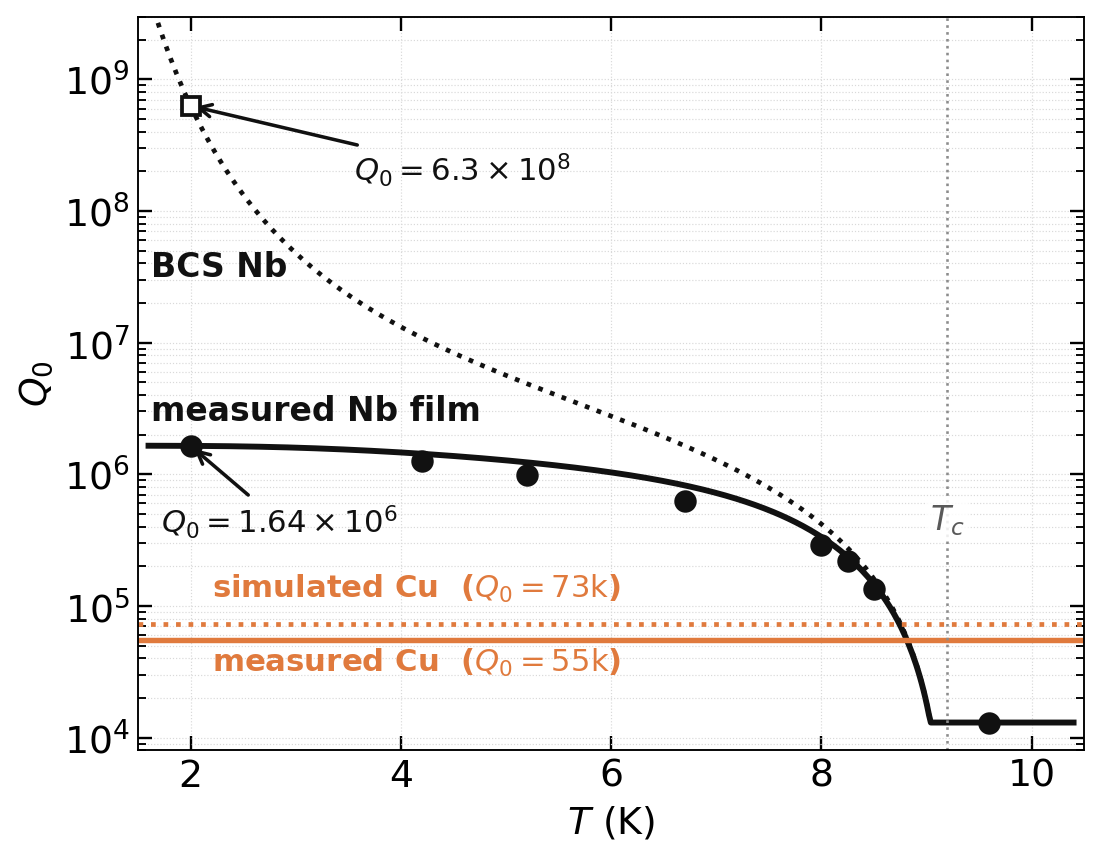
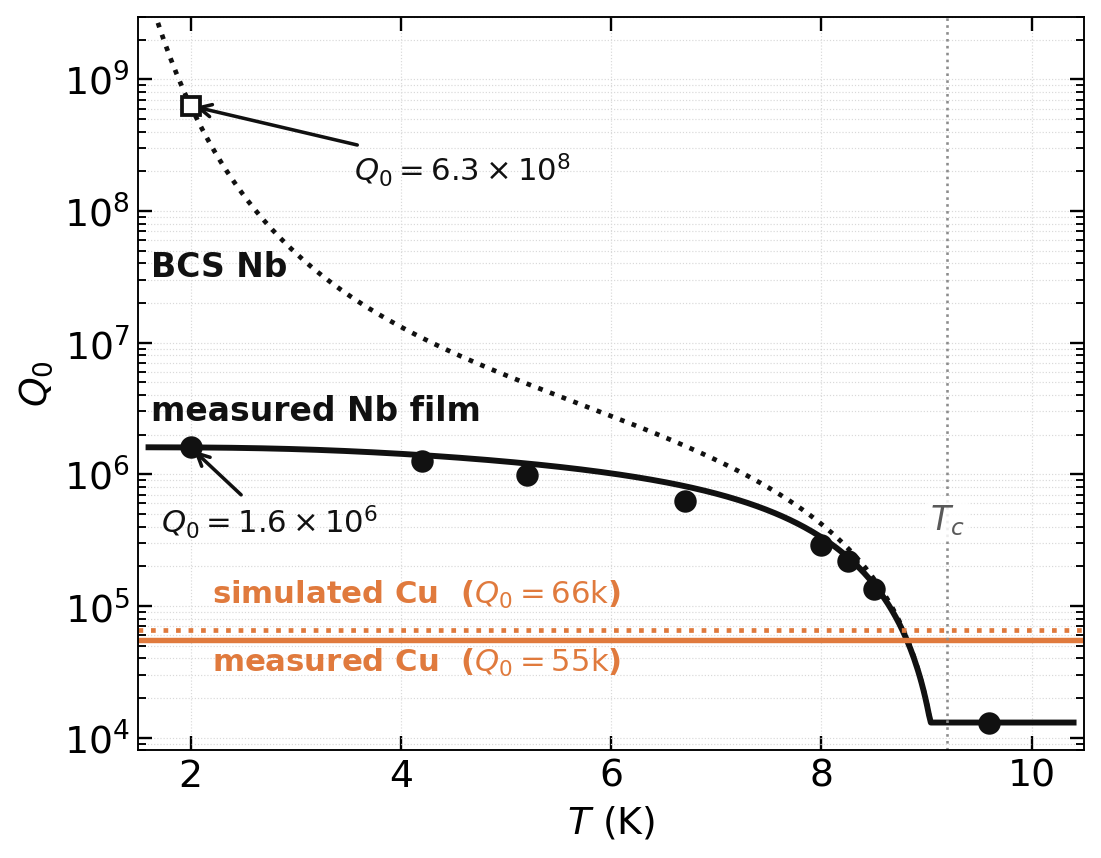
Updates from Overleaf

diff --git a/main1.tex b/main1.tex
@@ -38,15 +38,15 @@ Niobium thin films, superconducting cavities, quality factor, surface resistance
 
 \section{Introduction}
 \label{sec:intro}
-\IEEEPARstart{D}{eveloping} next-generation superconducting radio-frequency (SRF) cavities beyond high-purity Nb for higher-temperature $\sim$4 K operations increasingly depends on engineered surfaces and thin-film superconductors that can exceed the performance and cost limits of conventional bulk niobium~\cite{valenteFelicianoReview2016}. Candidate technologies include Nb$_3$Sn on Cu, Nb/Cu, multilayer superconducting structures, and other high-$T_c$ or high-superheating-field materials~\cite{valenteFelicianoReview2016, posen2023HighQ}. Because many of these materials cannot be fabricated as bulk cavities, thin-film deposition onto Nb or Cu substrates offers an attractive pathway to higher operating temperatures, reduces cryogenic demand, and potentially improves RF performance.
+\IEEEPARstart{D}{eveloping} next-generation superconducting radio-frequency (SRF) cavities beyond high-purity Nb for higher temperature ($\sim$4 K) operations increasingly depends on engineered surfaces and thin-film superconductors that can exceed the performance and cost limits of conventional bulk niobium~\cite{valenteFelicianoReview2016}. Candidate technologies include Nb$_3$Sn, Nb/Cu, multilayer superconducting structures, and other high-$T_c$ or high-superheating-field materials~\cite{valenteFelicianoReview2016, posen2023HighQ}. Because many of these materials cannot be fabricated as bulk cavities, thin-film deposition onto Nb or Cu substrates offers an attractive pathway to higher operating temperatures, reduces cryogenic demand, and potentially improves RF performance.
 
 A fundamental bottleneck, however, is how quickly researchers can evaluate candidate materials and deposition processes under realistic RF conditions. Thin-film development for SRF cavities involves a large, multidimensional processing space, including deposition technique, substrate condition, deposition temperature, film thickness, composition, microstructure, interface quality, heat treatment, surface processing, and, importantly, deposition on 3D cavity shapes. Conventional material characterization techniques such as XRD, SEM, transport measurements, magnetometry, and DC susceptibility provide essential superconducting material information but cannot directly determine the RF surface resistance $R_{s}$, field-dependent losses, or RF-induced degradation that ultimately governs SRF cavity performance.  Consequently, RF testing remains an indispensable bridge between materials development and cavity implementation.
 
-No direct method exists to evaluate structure-processing-performance relationships for SRF surfaces and thin films. Significant efforts in thermometry and destructive post-test coupon cutting from problem areas are state-of-the-art techniques to bridge defects to SRF performance~\cite{knobloch1995thermometry, trenikhinaSRF2013, ciovatiAnlageGurevich2013, posenTrenikhina2017NbSnPerformance, bianchiVenturiniDelsolaro2023, geCooley2011Replica}. Sample-based RF systems, particularly cavity-based systems, are needed to address this problem by exposing relatively small material samples to RF magnetic fields ($B_{RF}$), enabling measurements of $R_s(T, B_{RF}, f)$. Current SRF thin-film material characterization techniques rely on concentrating the RF field onto a flat 2D disc sample: quadrupole resonator (QPR)~\cite{del2018redesign, monroy2019design,ge2026design,zhao2026multiphysics}, mushroom cavities~\cite{nantista2005test,xie2013development,maniscalco2016new}, and choke cavity~\cite{seal2024high}. An alternative approach is to design 3D shapes with split cells, such as the SWELL cavity at CERN~\cite{peaugerSWELL2022} and the 6\,GHz Daresbury split cell~\cite{leicesterSplit6GHz2023}. The cavity reported here follows this general split-cell 3D approach, using a two-piece hexagonal prism geometry.
+Minimal methods exists to evaluate structure-processing-performance relationships for SRF surfaces and thin films. Significant efforts in thermometry and destructive post-test coupon cutting from problem areas are state-of-the-art techniques to bridge defects to SRF performance~\cite{knobloch1995thermometry, trenikhinaSRF2013, ciovatiAnlageGurevich2013, posenTrenikhina2017NbSnPerformance, bianchiVenturiniDelsolaro2023, geCooley2011Replica}. Sample-based RF systems, particularly cavity-based systems, are needed to address this problem by exposing relatively small material samples to RF magnetic fields ($B_{RF}$), enabling measurements of $R_s(T, B_{RF}, f)$. Coupon SRF thin-film material characterization techniques rely on concentrating the RF field onto a flat 2D disc sample: quadrupole resonator (QPR)~\cite{del2018redesign, monroy2019design,ge2026design,zhao2026multiphysics}, mushroom cavities~\cite{nantista2005test,xie2013development,maniscalco2016new}, and choke cavity~\cite{seal2024high}. An alternative approach is to design 3D shapes with split cells, such as the SWELL cavity at CERN~\cite{peaugerSWELL2022} and the 6\,GHz Daresbury split cell~\cite{leicesterSplit6GHz2023}. The cavity reported here follows this general split-cell 3D approach, using a two-piece hexagonal prism geometry.
 
-Nb and NbTi have upper critical fields at or below the fields used in present axion searches, which rules them out of a high-field haloscope on physics grounds alone~\cite{gurevichUseNotUse2011}. Nb$_3$Sn, with $T_c \approx \SI{18.3}{\kelvin}$ and $H_{c2}\approx\SI{30}{\tesla}$, is a leading high-field candidate. The standard route, vapor diffusion of Sn into bulk Nb, gives the highest quality factors reported to date~\cite{posenNb3SnSuperconductingRadiofrequency2017}, but is not compatible with a copper substrate; routes under active development on copper instead include Sn-bronze diffusion~\cite{withanageRapidNbSn2021}, stoichiometric-target magnetron sputtering~\cite{fonnesuRecipeOptimizationSRF2025}, and Nb/Sn co-sputtering~\cite{sayeedFabricationSuperconductingNb3Sn2023}. Nb$_3$Sn films are left for future work, as they had poor quality factors ($< 10^5$) at zero magnetic field, so simpler Nb films were measured here as a control experiment. The Nb film and bare Cu were measured in the same Cu cavity body and compared with simulated bulk Cu and with the expected performance of bulk Nb under similar conditions (no magnetic shielding, film exposed to air before testing).
+Nb and NbTi have upper critical fields at or below the fields used in present axion searches, which rules them out of a high-field haloscope on physics grounds alone~\cite{gurevichUseNotUse2011}. Nb$_3$Sn, with $T_c \approx \SI{18.3}{\kelvin}$ and $H_{c2}\approx\SI{30}{\tesla}$, is a leading high-field candidate. The standard route, vapor diffusion of Sn into bulk Nb, gives the highest quality factors reported to date~\cite{posenNb3SnSuperconductingRadiofrequency2017}, but is not compatible with a copper substrate; routes under active development on copper instead include Sn-bronze diffusion~\cite{withanageRapidNbSn2021, juliaoNb3SnThesis2026, luCuBronzeQPR2026}, stoichiometric-target magnetron sputtering~\cite{fonnesuRecipeOptimizationSRF2025}, and Nb/Sn co-sputtering~\cite{sayeedFabricationSuperconductingNb3Sn2023}. Nb$_3$Sn films were made on this cavity geometry, but are left for future work. Since the Nb$_3$Sn films had inadequate quality factors ($< 10^5$) at zero magnetic field, simpler Nb films were measured here to learn more about the cavity design while not me limited by the film quality. The bare Cu and Nb film were measured in the same Cu cavity geometry and compared with simulated bulk Cu and the expected performance of bulk Nb under similar conditions (no magnetic shielding, film exposed to air before testing).
 
-The cavity in this work fit inside the small sample space of a Quantum Design PPMS, constraining its outer dimension to \SI{26}{\milli\meter}, a factor of six smaller compared to other benchmark results~\cite{posen2023HighQ, alesini2019QUAX}. The cylindrical PPMS cavity design was first proposed by Thomas Braine~\cite{Braine:2024nzi}, and iterated into a hexagonal prism design used for this work~\cite{juliaoNb3SnThesis2026}. This PPMS-compatible design allows for rapid screening of the quality factor vs temperature and magnetic field for coatings using a compact, commercially available system.
+The cavities in this work fit inside the small sample space of a Quantum Design PPMS, constraining its outer dimension to \SI{26}{\milli\meter}, a factor of six smaller compared to other benchmark results~\cite{posen2023HighQ, alesini2019QUAX}. The cylindrical PPMS cavity design was first proposed by Thomas Braine~\cite{Braine:2024nzi}, and iterated into a hexagonal prism design used for this work~\cite{juliaoNb3SnThesis2026}. This design allows for rapid screening of the quality factor of coatings using a commercially available system for temperature and magnetic field control.
 
 
 \section{Methods}
@@ -54,12 +54,12 @@ The cavity in this work fit inside the small sample space of a Quantum Design PP
 \label{sec:fabrication}
 
 
-The two-piece hexagonal prism cavity is machined from bulk oxygen-free high-conductivity copper, is \SI{72}{\milli\meter} tall (\SI{52}{\milli\meter} inner length) with a \SI{11.6}{\milli\meter} inner wall face width and a minimum wall thickness of \SI{2}{\milli\meter}. The two halves close with four hand-tightened stainless screws and three alignment pegs, and the cavity operates in the TM$_{010}$ mode near \SI{11}{\giga\hertz}. Before deposition, each half was mechanically polished by hand with 400 to 1200 grit and electropolished in phosphoric acid:butanol (3:2) at \SI{45}{\celsius} with a stir bar at 600\,RPM.
+The two-piece hexagonal prism cavity is machined from bulk oxygen-free high-conductivity copper and is \SI{72}{\milli\meter} tall (\SI{52}{\milli\meter} inner length) with an \SI{11.6}{\milli\meter} inner wall face width and a minimum wall thickness of \SI{2}{\milli\meter}. The two halves close with four hand-tightened stainless screws and three alignment pegs, and the cavity operates in the TM$_{010}$ mode near \SI{11}{\giga\hertz}. Before deposition, each half was mechanically polished by hand with 400 to 1200 grit and electropolished in phosphoric acid:butanol (3:2) at \SI{45}{\celsius} with a stir bar at 600\,RPM.
 
 \subsection{Superconducting Thin Film Deposition}
 \label{sec:deposition}
 
-The RF surface was coated with a \SI{500}{\nano\meter} Ta diffusion barrier by DC magnetron sputtering at \SI{100}{\watt} with a \SI{-100}{\volt} substrate bias in \SI{10}{\milli\torr} Ar at \SI{200}{\celsius}, followed by a \SI{700}{\nano\meter} Nb layer sputtered at \SI{250}{\watt} in \SI{8}{\milli\torr} Ar, also at \SI{200}{\celsius}. After deposition, we hand-polished the mating interface between the two halves to close the seam gap; however, light was still visible when we held the assembled halves up to a light source. Fig.~\ref{fig:cavity} shows the coated cavity halves; the darker Nb film covers the resonating wall, while the interface appears as bare copper due to the post-deposition polish.
+The RF surface was coated with a \SI{500}{\nano\meter} Ta diffusion barrier by DC magnetron sputtering at \SI{100}{\watt} with a \SI{-100}{\volt} substrate bias in \SI{10}{\milli\torr} Ar at \SI{200}{\celsius}, followed by a \SI{700}{\nano\meter} Nb layer sputtered at \SI{250}{\watt} in \SI{8}{\milli\torr} Ar, also at \SI{200}{\celsius}. After deposition, we hand-polished the mating interface between the two halves to close the seam gap; however, light was still visible when we held the assembled halves up to a light source. Fig.~\ref{fig:cavity}a) shows the coated cavity halves; the darker Nb film covers the resonating wall, while the interface appears as bare copper due to the post-deposition polish.
 \begin{figure}[!t]
     \centering
     \includegraphics[width=0.85\linewidth]{cavity_photo.png}
@@ -71,9 +71,9 @@ The RF surface was coated with a \SI{500}{\nano\meter} Ta diffusion barrier by D
 \label{sec:measurement}
 
 
-The assembled cavity was mounted on an RF probe inside a Quantum Design PPMS~\cite{Braine:2024thesis}, enabling temperature control from 2 to \SI{300}{\kelvin} at fields up to \SI{9}{\tesla}; all data reported here were taken at zero applied field, with a remanent field below 1\,Oe. A Keysight PNA vector network analyzer drove the cavity through one antenna (port 1, $S_{11}$) and read out through a second (port 2, $S_{22}$), with transmission recorded as $S_{21}$. The two-piece geometry allows opening the cavity before and after measurement and deposition. 
+The assembled cavity was mounted on an RF probe inside a Quantum Design PPMS~\cite{Braine:2024thesis}, enabling temperature control from 2 to \SI{300}{\kelvin} at fields up to \SI{9}{\tesla}; all data reported here were taken at zero applied field, with a remanent field below 1\,Oe. A Keysight PNA vector network analyzer drove the cavity through one antenna (port 1, $S_{11}$) and read out through a second (port 2, $S_{22}$), with transmission recorded as $S_{21}$. The two-piece geometry allows opening the cavity before and after deposition and measurement. 
 
-Because both ports were non-negligibly coupled, we extracted $Q_0$ using the diameter-correction circle-fit method rather than assuming weak coupling~\cite{KajfezHwan1984}. For each port, the measured $S_{ii}$ trace was fit to a circle in the complex plane with center offset $C$ and radius $R$; the coupling coefficient follows from
+Because both ports were non-negligibly coupled, we extracted $Q_0$ using the diameter-correction circle-fit method rather than assuming weak coupling~\cite{KajfezHwan1984}. For each port, the measured $S_{ii}$ trace was fit to a circle in the complex plane with center offset $C$, $d$, $\Gamma_\text{off}$, and radius $R$; the coupling coefficient $\beta$ follows from
 \begin{equation}
 d = \frac{2R}{|\Gamma_\text{off}|}, \qquad \beta = \frac{d}{2-d}, \qquad |\Gamma_\text{off}| = |C| + R.
 \label{eq:beta}
@@ -92,18 +92,18 @@ We modeled the cavity geometry in COMSOL to confirm the TM$_{010}$ mode identity
     \label{fig:modes}
 \end{figure}
 
-From the TM$_{010}$ eigenmode, we computed the geometric factor from the ratio of stored magnetic energy to the surface integral of the tangential magnetic field, giving $G=\SI{367}{\ohm}$ for this cavity. Combined with a literature bulk-copper conductivity, the same simulation gives a simulated bare-copper ceiling of $Q_0=73{,}000$ (input $R_s = \SI{5.00}{\milli\ohm}$), used in Section~\ref{sec:Qfactor} as a cross-check on the measured copper baseline.
-% Hexagon-vs-cylinder surface-current comparison removed per SB (no matching experiment); figure kept in images/Sim_Cyl_hex.png.
+From the TM$_{010}$ eigenmode, we computed the geometric factor from the ratio of stored magnetic energy to the surface integral of the tangential magnetic field, giving $G=\SI{367}{\ohm}$ for this cavity. Combined with a literature bulk-copper resistivity ($R_s = \SI{5.6}{\milli\ohm}$), the same simulation gives a simulated bare-copper ceiling of $Q_0=66{,}000$ as a cross-check on the measured copper baseline.
+
 
 \subsection{Quality Factor Measurements}
 \label{sec:Qfactor}
 
-The coupling coefficients of the Ta/Nb-coated cavity at \SI{2}{\kelvin} were $\beta_1 = 0.53$ at the drive port and $\beta_2 = 0.24$ at the pickup port. We obtained the loaded quality factor from a Lorentzian fit to the normalized transmission $|S_{21}|^2$, using the 3\,dB bandwidth $\Delta f$ about the resonant frequency $f_0$: $Q_L = f_0/\Delta f = 929{,}000$. The unloaded quality factor then follows from
+The coupling coefficients of the Ta/Nb-coated cavity at \SI{2}{\kelvin} were $\beta_1 = 0.53$ at the drive port and $\beta_2 = 0.24$ at the pickup port. We obtained the loaded quality factor from a Lorentzian fit to the normalized transmission $|S_{21}|^2$, using the 3\,dB bandwidth $\Delta f$ about the resonant frequency $f_0$: $Q_L = f_0/\Delta f = 930{,}000$. The unloaded quality factor then follows from
 \begin{equation}
 Q_0 = Q_L\left(1+\beta_1+\beta_2\right),
 \label{eq:q0}
 \end{equation}
-giving $Q_0 = 1.64\times10^{6}$ at \SI{2}{\kelvin}. We applied the same procedure to the bare-Cu cavity; the results are summarized in Table~\ref{tab:Q}.
+giving $Q_0 = 1.6\times10^{6}$ at \SI{2}{\kelvin}. We applied the same procedure to the bare-Cu cavity; the results are summarized in Table~\ref{tab:Q}.
 
 \begin{table}[!t]
 \caption{Unloaded quality factor and surface resistance at \SI{2}{\kelvin} ($G=\SI{367}{\ohm}$).}
@@ -113,18 +113,18 @@ giving $Q_0 = 1.64\times10^{6}$ at \SI{2}{\kelvin}. We applied the same procedur
 \hline
  & $Q_0$ & $R_s$ \\
 \hline
-Simulated bare Cu & $7.3\times10^{4}$ & \SI{5.00}{\milli\ohm}$^a$ \\
-Measured bare Cu & $5.5\times10^{4}$ & \SI{6.67}{\milli\ohm} \\
-Measured Ta/Nb film & $1.64\times10^{6}$ & \SI{224}{\micro\ohm} \\
+Simulated bare Cu & $7.3\times10^{4}$ & \SI{5.0}{\milli\ohm}$^a$ \\
+Measured bare Cu & $5.5\times10^{4}$ & \SI{6.7}{\milli\ohm} \\
+Measured Ta/Nb film & $1.6\times10^{6}$ & \SI{220}{\micro\ohm} \\
 Bulk Nb, unshielded$^b$ & $\sim10^{8}$ & 1--4\,\si{\micro\ohm} \\
 \hline
 \multicolumn{3}{l}{\footnotesize $^a$Simulation input. $^b$Estimate; see text.}
 \end{tabular}
 \end{table}
 
-The measured bare-Cu baseline ($Q_0=55{,}000$, $R_s=\SI{6.67}{\milli\ohm}$) is 25\% below the simulated $Q_0=73{,}000$, but close to the physical limit for cold copper: at \SI{11}{\giga\hertz} the electron mean free path in cold OFHC Cu far exceeds the skin depth, so $R_s$ saturates in the anomalous-skin-effect regime at $\approx\SI{5.6}{\milli\ohm}$ ($Q_0\approx66{,}000$), independent of purity~\cite{reuterSondheimer1948, chambers1952, Braine:2024thesis}. The measured $R_s$ is within $\sim$20\% of this floor, consistent with $Q_0$ being constant from 2 to \SI{10}{\kelvin}. On a separate cylindrical cavity, sealing the seam with indium foil raised the bare-Cu $Q_0$ from 55,000 to 62,000.
+The measured bare-Cu baseline ($Q_0=55{,}000$, $R_s=\SI{6.7}{\milli\ohm}$) is 25\% below the simulated $Q_0=66{,}000$, but close to the physical limit for cold copper: at \SI{11}{\giga\hertz} the electron mean free path in cold OFHC Cu far exceeds the skin depth, so $R_s$ saturates in the anomalous-skin-effect regime at $\approx\SI{5.6}{\milli\ohm}$ ($Q_0\approx66{,}000$), independent of purity~\cite{reuterSondheimer1948, chambers1952, Braine:2024thesis}. The measured $R_s$ is within $\sim$20\% of this floor, consistent with $Q_0$ being constant from 2 to \SI{10}{\kelvin}. On a separate cylindrical cavity, sealing the seam with indium foil raised the bare-Cu $Q_0$ from 55,000 to 62,000.
 
-The Ta/Nb-coated cavity reached $Q_0=1.64\times10^{6}$ ($R_s=\SI{224}{\micro\ohm}$) at \SI{2}{\kelvin}, about 30 times the bare-Cu value. The BCS limit for Nb at \SI{11}{\giga\hertz} and \SI{2}{\kelvin} is $R_s\approx\SI{0.58}{\micro\ohm}$ ($Q_0\approx6.3\times10^{8}$, Fig.~\ref{fig:results})~\cite{padamseeRFSuperconductivity2008}; a real unshielded bulk Nb cavity adds comparable loss from trapped ambient flux ($\sim$0.5\,G at a few n$\Omega$/mG~\cite{checchinFrequencyDependence2018}), for a total $R_s \approx$ 1--4\,\si{\micro\ohm} ($Q_0 \sim 10^{8}$). The film is roughly two orders of magnitude worse than such a cavity.
+The Nb-coated cavity reached $Q_0=1.6\times10^{6}$ ($R_s=\SI{220}{\micro\ohm}$) at \SI{2}{\kelvin}, about 30 times the bare-Cu value. The BCS limit for Nb at \SI{11}{\giga\hertz} and \SI{2}{\kelvin} is $R_s\approx\SI{0.58}{\micro\ohm}$ ($Q_0\approx6.3\times10^{8}$, Fig.~\ref{fig:results})~\cite{padamseeRFSuperconductivity2008}; a real unshielded bulk Nb cavity adds comparable loss from trapped ambient flux ($\sim$0.5\,G at a few n$\Omega$/mG~\cite{checchinFrequencyDependence2018}), for a total $R_s \approx$ 1--4\,\si{\micro\ohm} ($Q_0 \sim 10^{8}$). The Nb measured film has roughly two orders of magnitude lower quality factor than such an ideal cavity in similar experimental conditions.
 
 \begin{figure}[!t]
     \centering
@@ -133,14 +133,14 @@ The Ta/Nb-coated cavity reached $Q_0=1.64\times10^{6}$ ($R_s=\SI{224}{\micro\ohm
     \label{fig:results}
 \end{figure}
 
-As shown in Fig.~\ref{fig:results}, $Q_0$ drops sharply near \SI{8.7}{\kelvin}, about \SI{0.5}{\kelvin} below the bulk-Nb $T_c$, and falls to order $10^{4}$ above it. Post-test laser-scanning confocal microscopy of the opened cavity showed thin or missing Nb along the inner edges where adjacent hexagon faces meet (Fig.~\ref{fig:cavity}b). A \SI{1.2}{\milli\meter} line scan of the back wall gave $R_a = \SI{0.91}{\micro\meter}$, $R_q = \SI{1.43}{\micro\meter}$, and $R_z = \SI{9.98}{\micro\meter}$, more than ten times the film thickness.
+As shown in Fig.~\ref{fig:results}, $Q_0$ drops sharply near \SI{8.7}{\kelvin}, about \SI{0.5}{\kelvin} below the bulk-Nb $T_c$. Post-test laser-scanning confocal microscopy of the opened cavity showed thin or missing Nb along the inner edges where adjacent hexagon faces meet (Fig.~\ref{fig:cavity}b). A \SI{1}{\milli\meter} line scan of the Nb film surface morphology gave $R_a = \SI{0.91}{\micro\meter}$, $R_q = \SI{1.4}{\micro\meter}$, and $R_z = \SI{10}{\micro\meter}$, roughness more than ten times the film thickness.
 
 \section{Discussion}
 \label{sec:discussion}
 
 \subsection{Origin of the Low $Q_0$}
 
-The most direct explanation for the gap between the film and bulk Nb is exposed copper. The measured \SI{224}{\micro\ohm} is only $\sim$3\% of the \SI{6.67}{\milli\ohm} of bare Cu, so if bare Cu replaced Nb on just $\sim$3\% of the wall, weighted by local RF current, it alone would account for the measured loss. The current is weaker near the hexagon edges, so a larger fraction of the wall would have to be bare there, but the poorly coated edges remain a plausible major loss. Substrate roughness compounds this: grooves up to \SI{10}{\micro\meter} deep cannot be conformally covered by a \SI{700}{\nano\meter} film, whereas electropolished Cu substrates for Nb films reach $R_a$ of \SIrange{6}{21}{\nano\meter}~\cite{Pira2019CuPolish}. The suppressed $T_c$ shows the film itself can also be improved, e.g., by HiPIMS~\cite{leithHiPIMSNbCu2023}. Finally, RF leakage through the seam, where light was still visible after assembly, adds loss that a superconducting film exposes far more than copper. Trapped flux is not the main loss: below 1\,Oe remanent field it adds at most a few \si{\micro\ohm}.
+The most direct explanation for the degraded quality factor of the Nb film compared to ideal bulk Nb is the exposed Cu on the inside edges of the cavity. The measured \SI{220}{\micro\ohm} is only $\sim$3\% of the \SI{6.7}{\milli\ohm} of bare Cu, so if bare Cu replaced Nb on just $\sim$3\% of the wall, weighted by local RF current, it alone would account for the measured loss. The hexagon edge regions effect the quality factor less because the current is weaker near the hexagon edges, but the poorly coated edges remain a plausible domain of high resistance. Substrate roughness compounds this: grooves up to \SI{10}{\micro\meter} deep cannot be conformally covered by a \SI{700}{\nano\meter} film, whereas electropolished Cu substrates for Nb films can reach $R_a$ of \SIrange{6}{21}{\nano\meter}~\cite{Pira2019CuPolish}. The suppressed $T_c$ shows the film itself can also be improved, e.g., by HiPIMS~\cite{leithHiPIMSNbCu2023}. Finally, RF leakage at the interface between half-shells, where light was still visible after assembly, adds loss that can dominate a superconducting thin film measurement. Trapped flux is not a main loss: below 1\,Oe remanent field it adds at most a few \si{\micro\ohm}.
 
 \subsection{Coating Coverage at the Inner Edges}
 
@@ -148,8 +148,7 @@ The inspection showed no sign of film debonding; instead, the Nb is thin or abse
 
 \subsection{Current Limitations that need to be addressed}
 
-Currently, the  halves are assembled in air, so air- or moisture-sensitive superconductors cannot easily be tested unless assembly moves into a glovebox and the cavity is sealed before transfer to the PPMS. Sealing of the two halves is a challenge. The design simulations show that the  TM$_{010}$ wall current flows parallel to the seam, but a finite gap leads to field leak into joints. Indium foil helped the bare-Cu cavity, but it turns normal above \SI{3.4}{\kelvin} and in modest fields. An external clamp or casing could improve the seal but competes for space in the \SI{26}{\milli\meter} PPMS sample chamber.
-
+Currently, the  halves are assembled in air, so air- or moisture-sensitive superconductors cannot easily be tested unless assembly moves into a glovebox and the cavity is sealed before transfer to the PPMS. Sealing of the two halves is a challenge. The design simulations show that the TM$_{010}$ wall current flows parallel to the seam, but a finite gap at the interface of the half-shells leads to RF field leakage. Indium foil helped the bare-Cu cavity reach higher Q, and future iterations will include the indium foil. An external clamping or casing could improve the seal but competes for space in the \SI{26}{\milli\meter} PPMS sample chamber. Future designs may experiment with a smaller inner cavity (higher frequency), to trade for more room to seal the interface gap between half-shells. Another possibility in closing the gap between half-shells is the diffusion bonding method described in previous work with Nb$_3$Sn and a Cu substrate \cite{healing}. This method not only seals the RF leakage gap but also can bond the inner superconducting material if superconducting thin film is well aligns across the half-shell interface. However, this would eliminate the possibility of post-analysis as the half-shell would be bonded to the other half-shell.
 
 
 \section{Conclusion}
